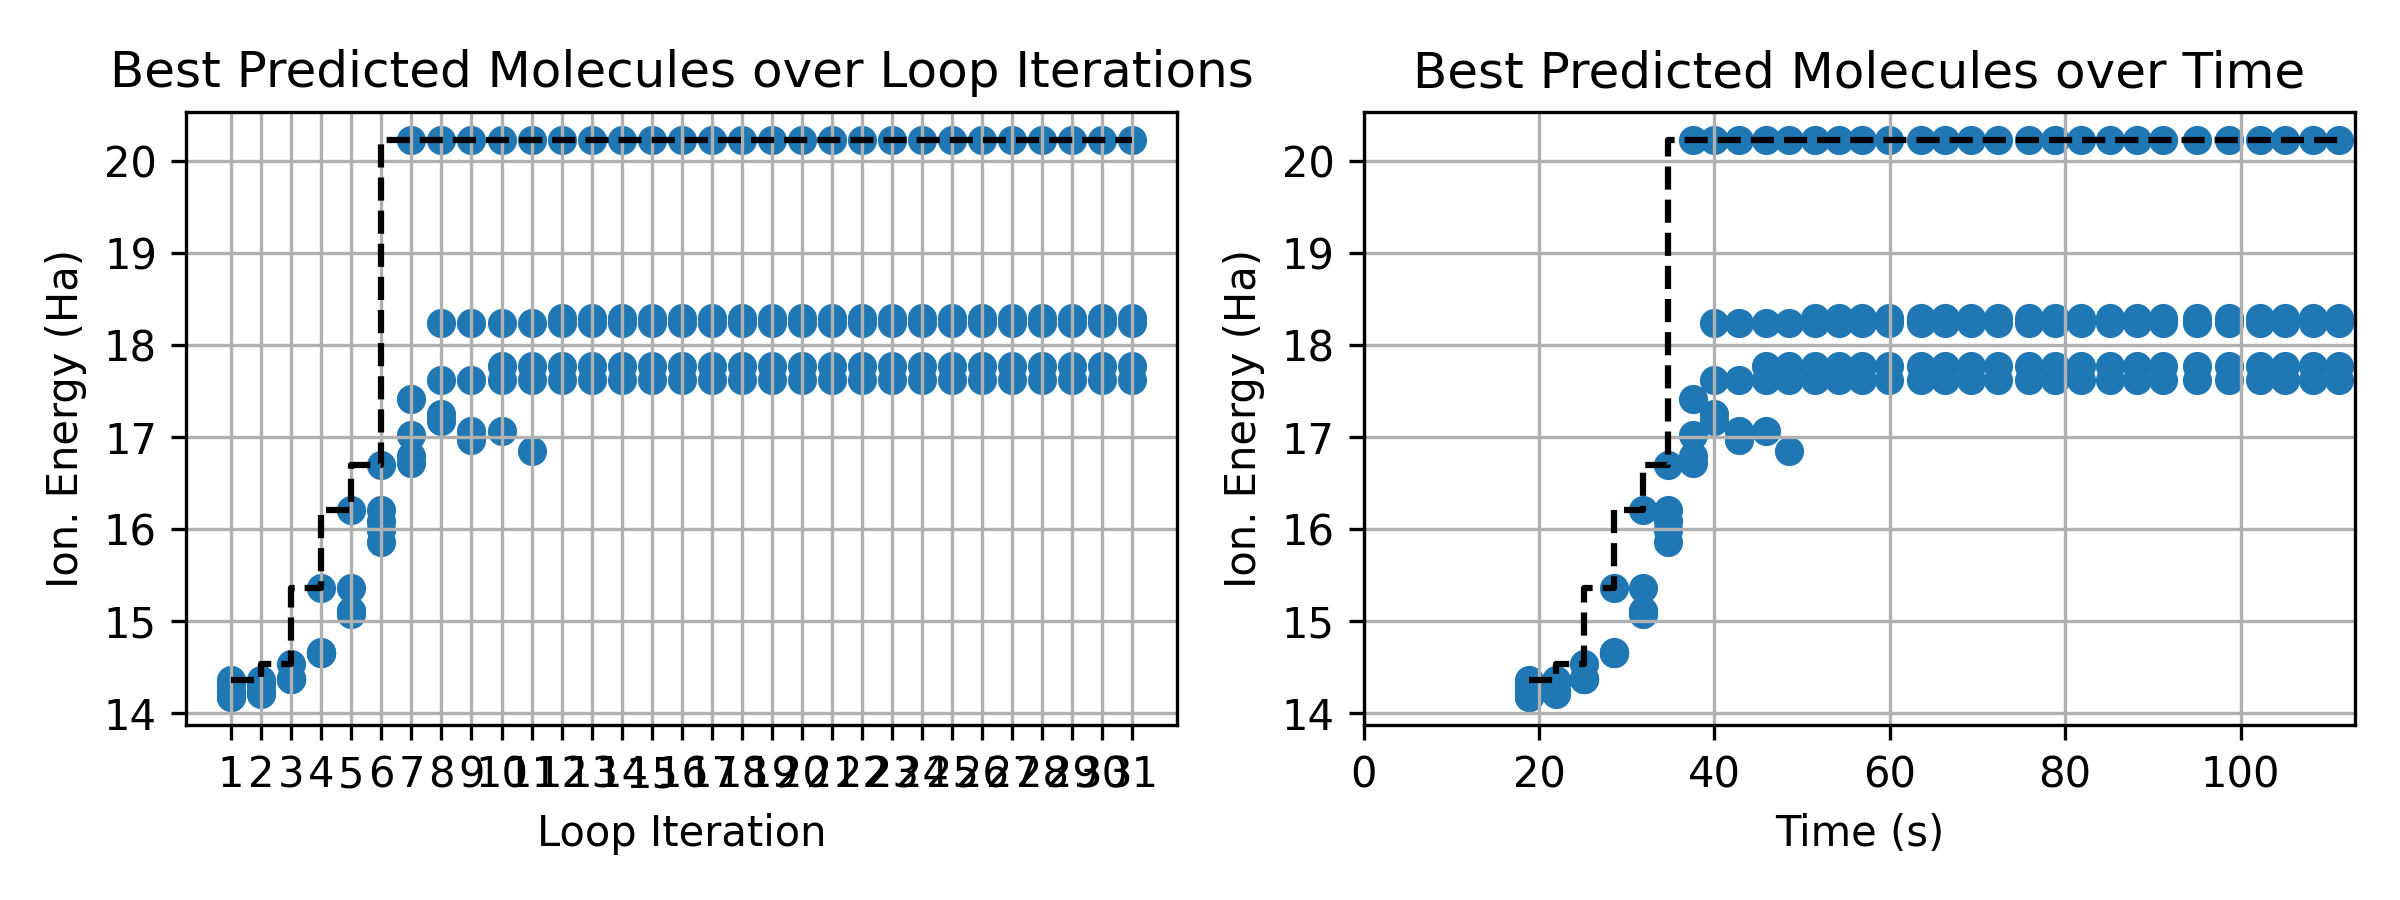
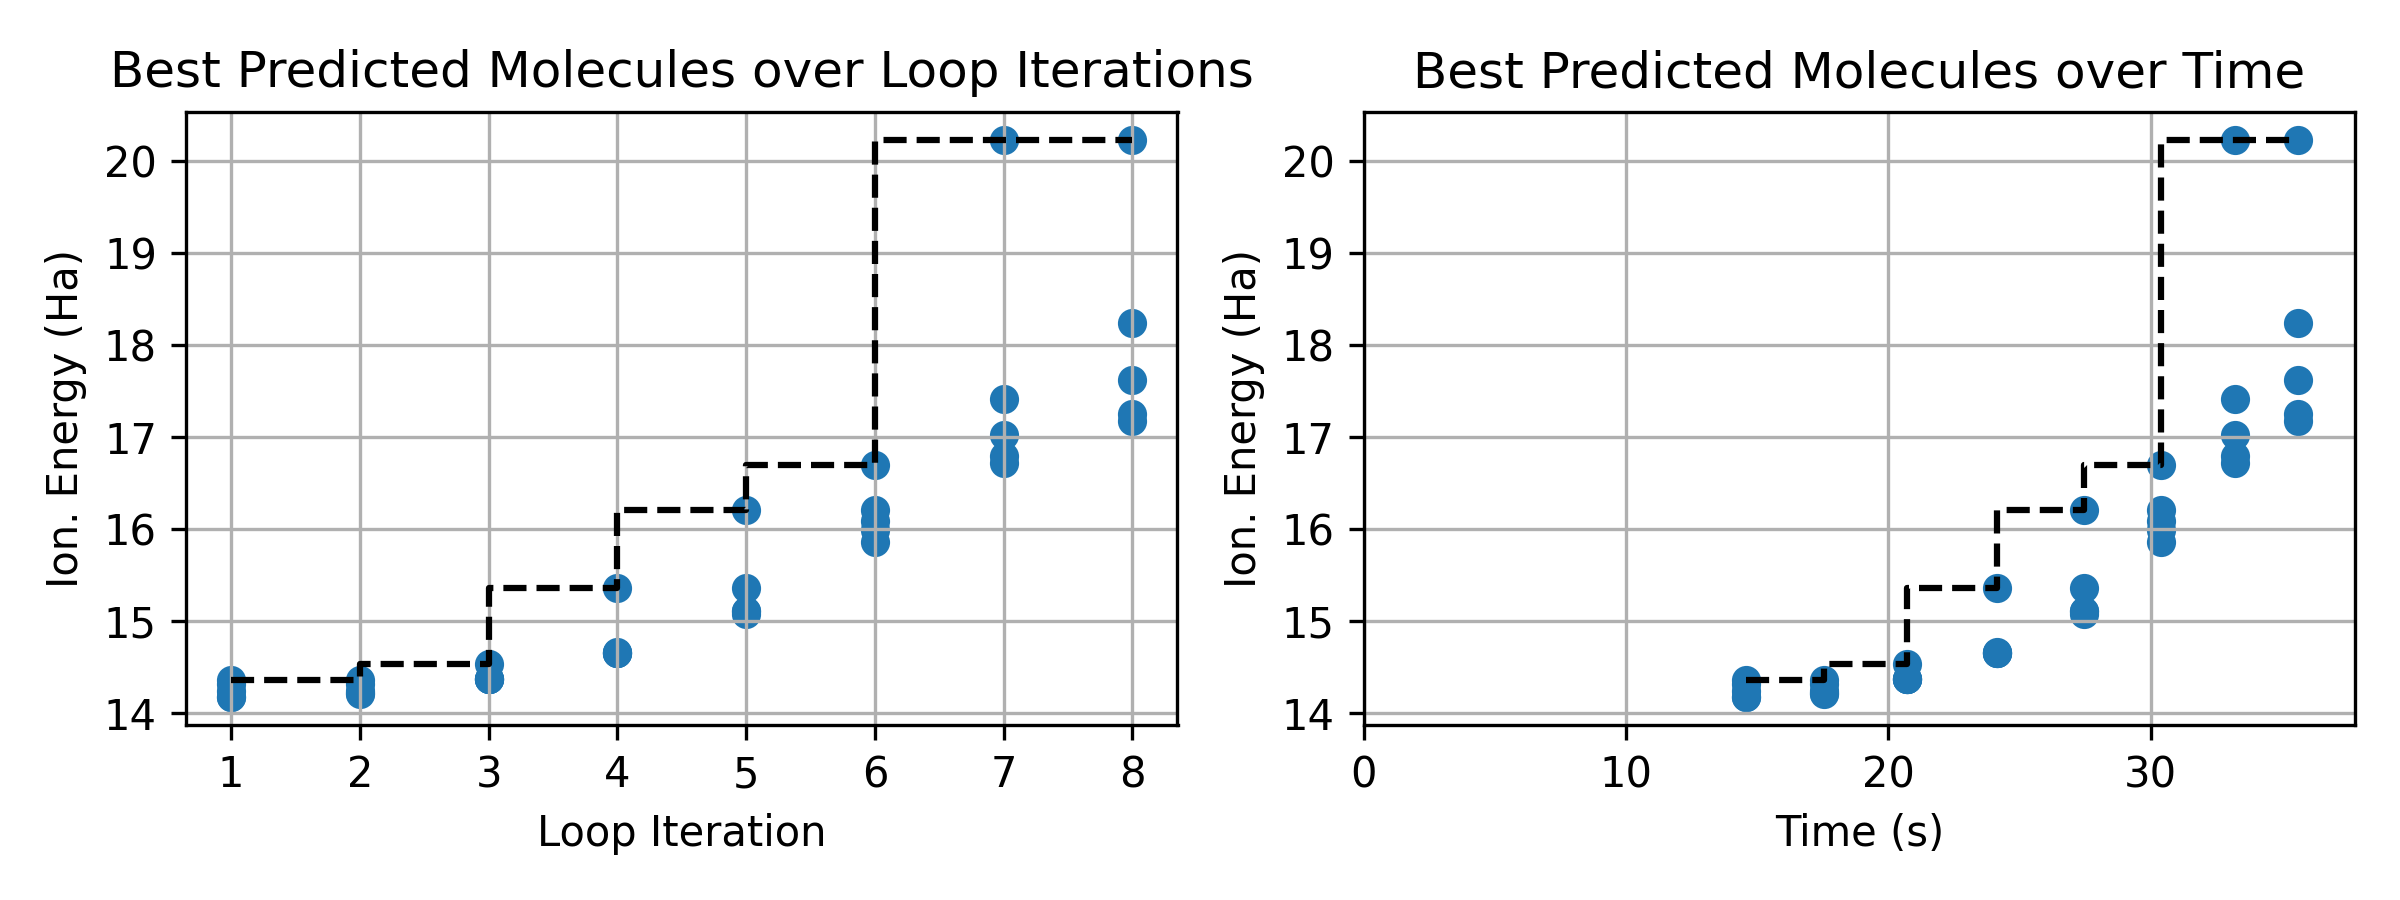
Final Result

diff --git a/03-Coupling-Sim-AI/ml-in-the-loop/3_ml_in_the_loop.py b/03-Coupling-Sim-AI/ml-in-the-loop/3_ml_in_the_loop.py
@@ -26,8 +26,8 @@ np.random.seed(seed)
 random.seed(seed)
 
 # Define parameters for the workflow
-initial_training_count = 4  # Number of trianing samples to collect for first model training
-max_training_count = 44  # Maximum number of training samples to collect for training
+initial_training_count = 16  # Number of trianing samples to collect for first model training
+max_training_count = 80  # Maximum number of training samples to collect for training
 batch_size = 8  # Number of molecules to simulate in each iteration of active learning loop
 if initial_training_count >= max_training_count:
     print("Must do at least 1 active trianing iteration.")
